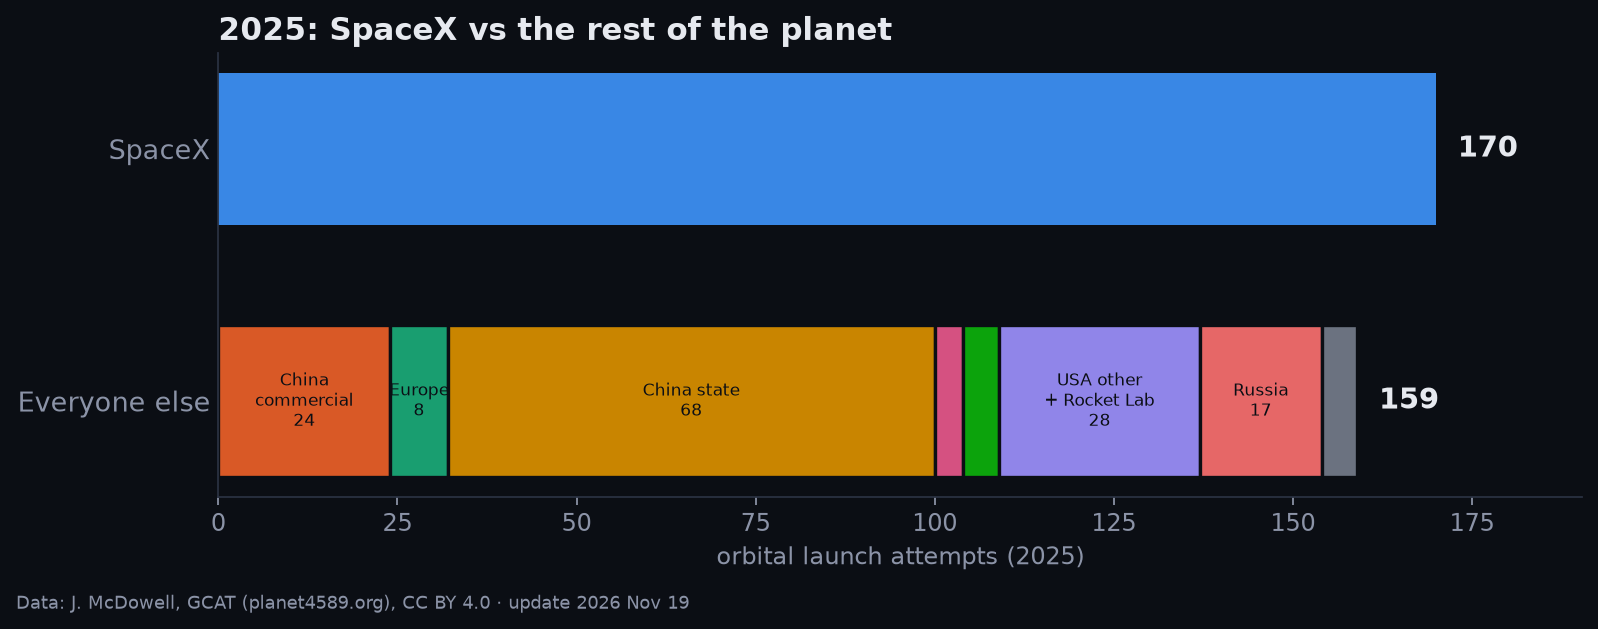
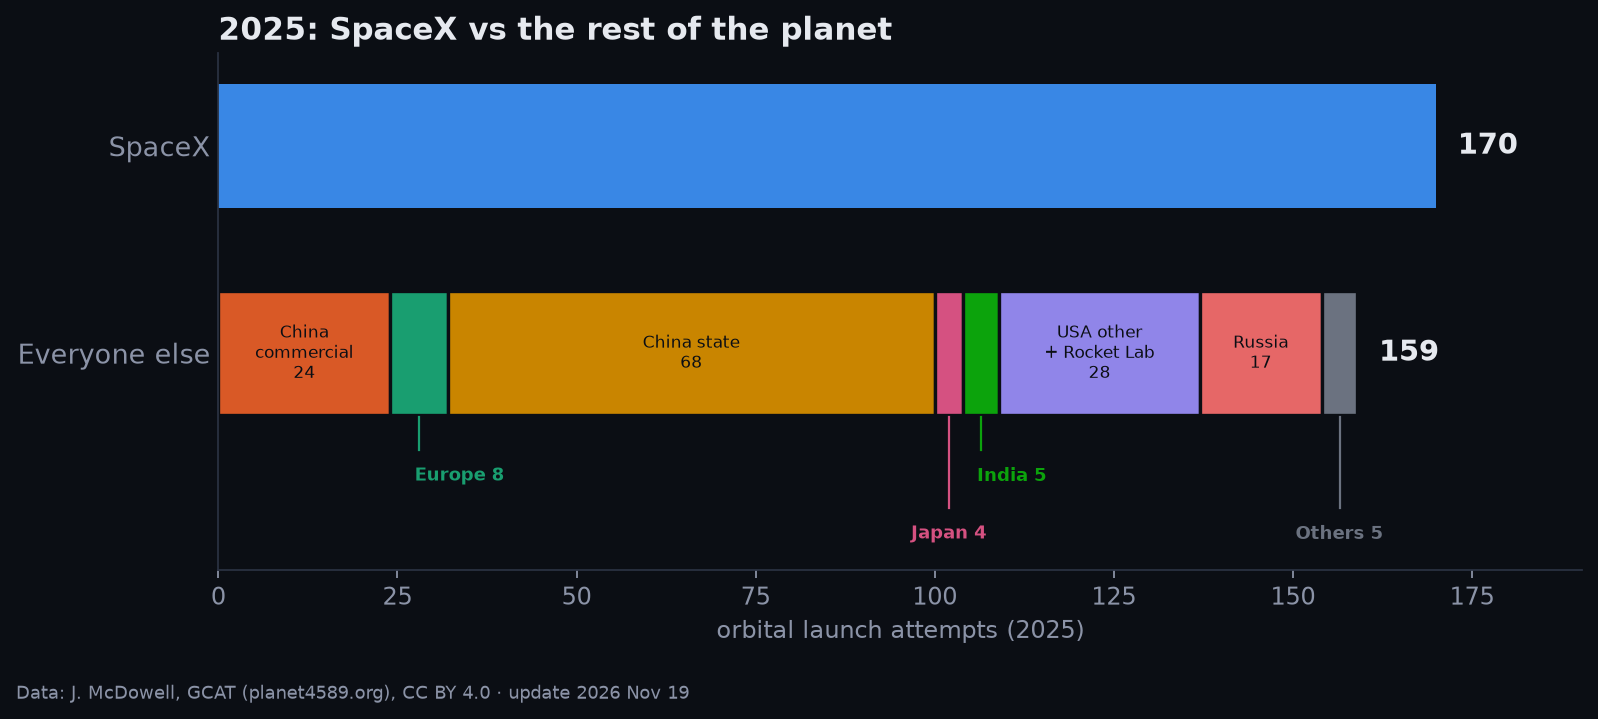
Label the small segments in the SpaceX vs rest figure

diff --git a/worldspace/figures.py b/worldspace/figures.py
@@ -295,16 +295,28 @@ def success(t, f, lang, save):
 def spacex_vs_rest(t, f, lang, save, year=2025):
     L = T[lang]
     Y = _fig_table(t["by_year"]).loc[year]
-    fig, ax = plt.subplots(figsize=(11, 3.6))
+    fig, ax = plt.subplots(figsize=(11, 4.2))
     ax.barh([1], [Y["SpaceX"]], color=COLORS["SpaceX"], height=0.6)
     left = 0
     rest = [g for g in FIG_GROUPS if g != "SpaceX"]
+    small = []
     for g in rest:
         ax.barh([0], [Y[g]], left=left, color=COLORS[g], height=0.6, edgecolor=BG, linewidth=1.5)
-        if Y[g] >= 8:
+        if Y[g] >= 10:
             ax.text(left + Y[g] / 2, 0, f"{SHORT[lang].get(g, g)}\n{int(Y[g])}", ha="center",
                     va="center", fontsize=7.5, color="#0b0e14")
+        elif Y[g] > 0:
+            small.append((left + Y[g] / 2, g))
         left += Y[g]
+    # Segments too narrow for an inside label: label below the bar with a leader line, staggered.
+    for i, (x, g) in enumerate(small):
+        name = SHORT[lang].get(g, g).replace("\n", " ")
+        yl = -0.55 - 0.28 * (i % 2)
+        ax.plot([x, x], [-0.31, yl + 0.08], color=COLORS[g], lw=1)
+        upper = i % 2 == 0  # upper-row labels start at their line so lower-row lines never cross them
+        ax.text(x - 0.6 if upper else x, yl, f"{name} {int(Y[g])}", ha="left" if upper else "center", va="top",
+                fontsize=8, color=COLORS[g], weight="bold")
+    ax.set_ylim(-1.05, 1.45)
     ax.text(Y["SpaceX"] + 3, 1, f"{int(Y['SpaceX'])}", va="center", color=INK, fontsize=13, weight="bold")
     ax.text(left + 3, 0, f"{int(left)}", va="center", color=INK, fontsize=13, weight="bold")
     ax.set_yticks([0, 1])
@@ -322,9 +334,10 @@ def spacex_vs_rest(t, f, lang, save, year=2025):
 
 
 SHORT = {"en": {"China (commercial)": "China\ncommercial", "China (state)": "China state",
-                "USA (other)": "USA other\n+ Rocket Lab", "USSR/Russia": "Russia"},
+                "USA (other)": "USA other\n+ Rocket Lab", "USSR/Russia": "Russia", "Other": "Others"},
          "es": {"China (commercial)": "China\ncomercial", "China (state)": "China estatal",
-                "USA (other)": "EE. UU. otros\n+ Rocket Lab", "USSR/Russia": "Rusia", "Europe": "Europa"}}
+                "USA (other)": "EE. UU. otros\n+ Rocket Lab", "USSR/Russia": "Rusia", "Europe": "Europa",
+                "Japan": "Japón", "Other": "Otros"}}
 
 ALL = [per_year, spacex_share, china, mass, reuse, success, spacex_vs_rest]
 
